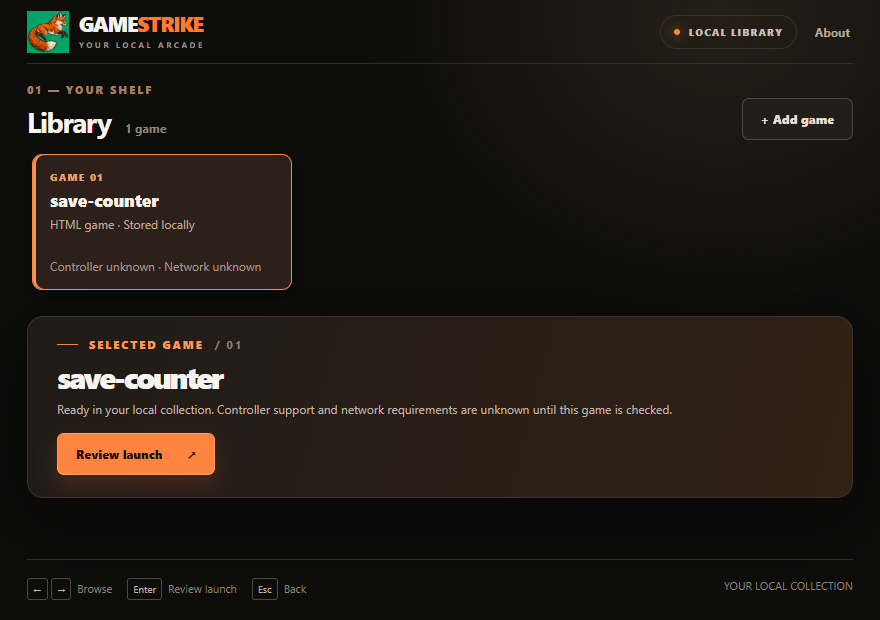
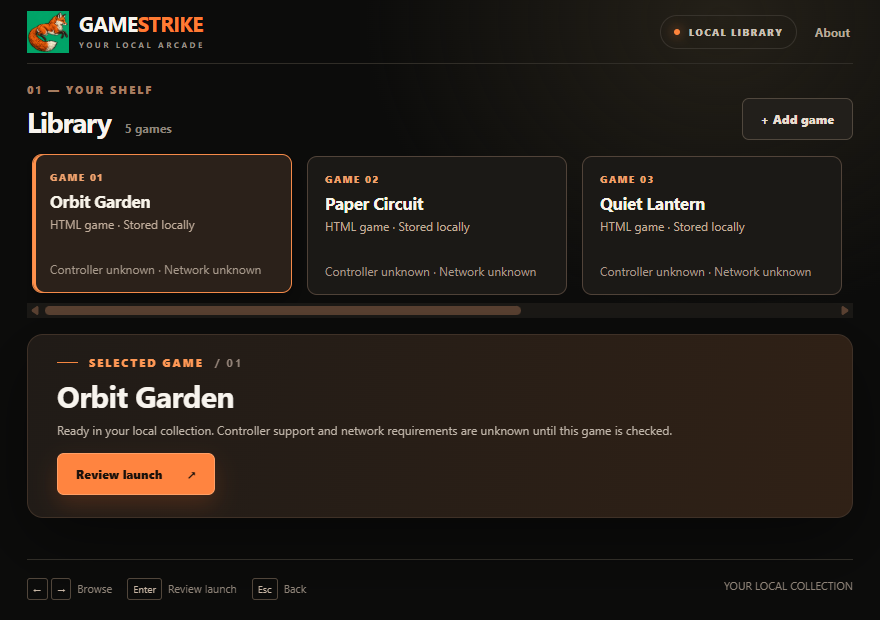
Publish reviewed multi-game and dialog captures

diff --git a/README.md b/README.md
@@ -17,17 +17,23 @@
 
 ## Actual Windows captures
 
-These are PNGs captured from the rendered WebView2 window of the [CI-built Windows launcher](https://github.com/Gerbzz/GameStrike/actions/runs/38650007764) on the Office PC. The populated library contains only the bundled benign `save-counter.html` fixture, imported into an isolated test library. The images have not been composited or retouched.
+These are PNGs captured from the rendered WebView2 window of the [CI-built Windows launcher](https://github.com/Gerbzz/GameStrike/actions/runs/38651373781) on the Office PC. The populated library contains five tiny synthetic local HTML fixtures, including a long title, imported into an isolated test library. The images have not been composited or retouched.
 
 **Your empty library, 1250 × 800**
 
 ![Actual GameStrike empty library window with original fox artwork and Add game controls](docs/screenshots/empty-library.png)
 
-**A local game in the library, 1250 × 800**
+**Local test games in the library, 1250 × 800**
 
-![Actual GameStrike library window with one locally imported save-counter fixture](docs/screenshots/local-library.png)
+![Actual GameStrike library window with five locally imported synthetic HTML games](docs/screenshots/local-library.png)
 
-The [880 × 620 minimum-window capture](docs/screenshots/local-library-minimum.png) shows the same shelf, selected-game panel, and controls fitting above the footer. [Capture provenance](docs/screenshots/README.md) records the exact source commit and method.
+The [880 × 620 minimum-window capture](docs/screenshots/local-library-minimum.png) shows the shelf and controls fitting above the footer. A [selected long title](docs/screenshots/long-title.png) remains readable, while the [launch warning](docs/screenshots/launch-warning.png) keeps **Go back** focused by default.
+
+**Publisher credit in About**
+
+![Actual GameStrike About dialog with the authentic PWDS publisher logo](docs/screenshots/about-publisher.png)
+
+[Capture provenance](docs/screenshots/README.md) records the source commit, controlled fixtures, and capture method.
 
 ## How it works
 
@@ -77,7 +83,7 @@ gamestrike-player --library LIBRARY --id GAME_UUID --allow-network
 
 ## Current status
 
-The launcher provides an empty shelf, real title-led game cards, importing and rejected-import states, network consent, keyboard/controller navigation, and player start/exit feedback. [Windows source checks](https://github.com/Gerbzz/GameStrike/actions/runs/38650007764) built both binaries and passed 8 importer tests, 1 launcher origin test, 5 player tests, 5 input regressions, formatting, and JavaScript syntax. The actual library was captured and inspected at normal and minimum sizes; the player ran the controlled fixture at standard Windows integrity (`GameStrike fixture launch 1`, exit 0). The native file picker and player round trip through the launcher still need hands-on checks. Controlled browser-boundary tests remain before general-game safety claims.
+The launcher provides an empty shelf, real title-led game cards, importing and rejected-import states, network consent, keyboard/controller navigation, and player start/exit feedback. [Windows source checks](https://github.com/Gerbzz/GameStrike/actions/runs/38651373781) built both binaries and passed 8 importer tests, 1 launcher origin test, 5 player tests, 5 input regressions, formatting, and JavaScript syntax. The actual empty, multi-game, long-title, launch-dialog, and About surfaces were captured and inspected; the player ran the controlled save fixture at standard Windows integrity (`GameStrike fixture launch 1`, exit 0). The native file picker, physical controller, and player round trip through the launcher still need hands-on checks. Controlled browser-boundary tests remain before general-game safety claims.
 
 The separate Wry/system-WebView player is designed to have no Tauri commands, launcher credentials, game-to-host message bridge, or unrestricted file access. It limits local assets to the selected game's content root and registers navigation, download, window, and permission restrictions. Those checks still need controlled runtime validation across frames, protocols, workers, and network paths. Read [PLAYER_SECURITY.md](docs/PLAYER_SECURITY.md) before widening use; [LAUNCHER_UI.md](docs/LAUNCHER_UI.md) records the launcher implementation.
 

diff --git a/docs/screenshots/README.md b/docs/screenshots/README.md
@@ -2,11 +2,14 @@
 
 These PNGs are captures of the running Windows `gamestrike-launcher.exe` WebView2 surface, produced with its explicit `--capture-preview` option. They are not HTML mockups, browser recreations, composited images, or retouched renders.
 
-- Source: commit `aa1d86b699687198ad59983d44f7547c24a1871f`
[1 lines of base64/hex data omitted]
+- Source: commit `5cf79aef85c633533bfaf318599f6cbd0a25b50d`
[1 lines of base64/hex data omitted]
 - Host and date: Office PC, 2026-10-14 UTC
 - `empty-library.png`: a newly created, empty isolated library at 1250 × 800
-- `local-library.png`: an isolated library containing only the bundled benign `fixtures/save-counter.html` at 1250 × 800
-- `local-library-minimum.png`: the same fixture library at the 880 × 620 minimum window size
+- `local-library.png`: five benign synthetic HTML files imported into an isolated test library at 1250 × 800
+- `local-library-minimum.png`: the same test library at the 880 × 620 minimum window size
+- `long-title.png`: the fifth synthetic title selected and scrolled into view; it is visible in the shelf and selected-game panel
+- `launch-warning.png`: the launch dialog for the bundled benign `fixtures/save-counter.html`, before consenting or launching a game
+- `about-publisher.png`: the About dialog with the unchanged official PWDS display logo
 
-The fixture was imported through the existing GameStrike CLI before the captures. The native launcher's own file picker, import flow, and consent dialog still require interaction testing. No third-party games or user files appear in these screenshots.
+The files were imported through the existing GameStrike CLI before capture. The synthetic HTML contains no scripts or remote assets. The explicit `--capture-view` option opened the bundled launch and About dialogs before WebView2 captured them; it did not approve network access or execute a game. The native launcher's file picker, import flow, physical controller focus, and player return still require interaction testing. No third-party games or user files appear in these screenshots.

diff --git a/docs/LAUNCHER_UI.md b/docs/LAUNCHER_UI.md
@@ -14,4 +14,4 @@ Controller support and network requirement are shown as unknown for every import
 
 ## Verification still needed
 
-The launcher passed formatting and JavaScript syntax checks, 8 importer tests, 1 launcher origin test, 5 player tests, and 5 controller input regressions in [Windows CI](https://github.com/Gerbzz/GameStrike/actions/runs/38650007764). The CI-built launcher rendered and captured the actual empty and populated WebView2 surfaces on the Office PC at 1250 × 800, plus the populated surface at the 880 × 620 minimum. Its matching player launched the bundled save fixture at standard Windows integrity. The image files and source provenance are in [screenshots](screenshots/README.md). The native file picker, successful and rejected imports through the launcher, dialog focus with a physical controller, and player return still need interactive checks. Repeat the player browser-boundary fixture checks before expanding beyond controlled games.
+The launcher passed formatting and JavaScript syntax checks, 8 importer tests, 1 launcher origin test, 5 player tests, and 5 controller input regressions in [Windows CI](https://github.com/Gerbzz/GameStrike/actions/runs/38651373781). The CI-built launcher rendered and captured the actual empty, five-game, long-title, launch-dialog, and About surfaces on the Office PC. The five-game shelf also fits at the 880 × 620 minimum size. Its matching player launched the bundled save fixture at standard Windows integrity. The image files and source provenance are in [screenshots](screenshots/README.md). The native file picker, successful and rejected imports through the launcher, dialog focus with a physical controller, and player return still need interactive checks. Repeat the player browser-boundary fixture checks before expanding beyond controlled games.
